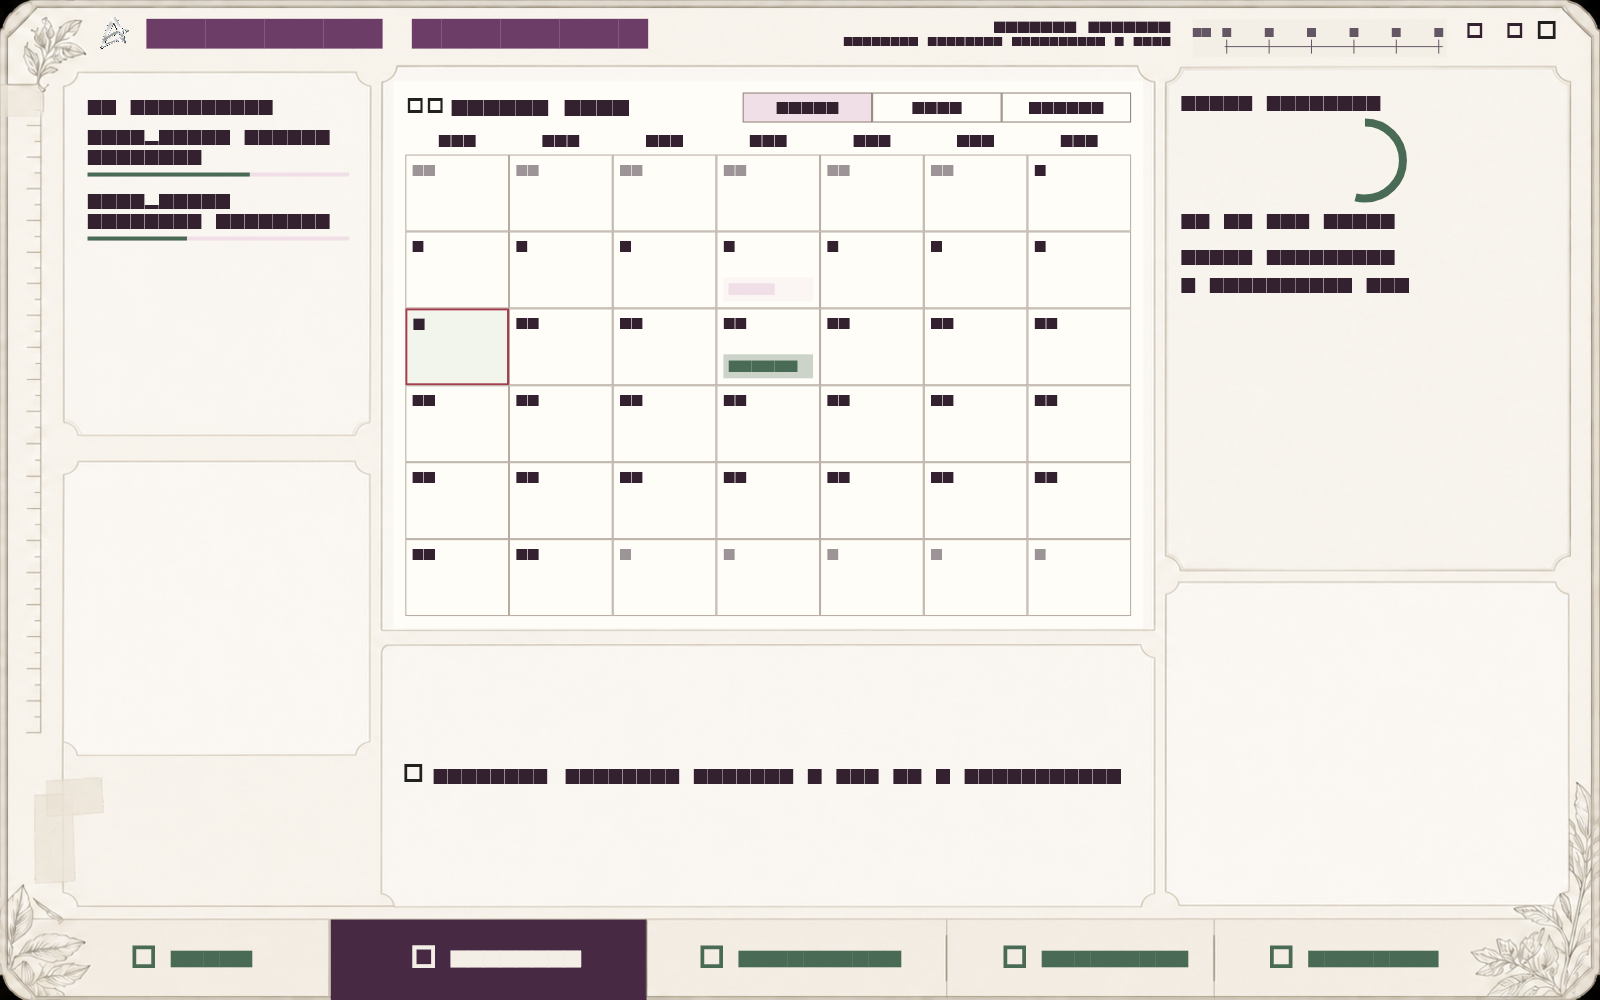
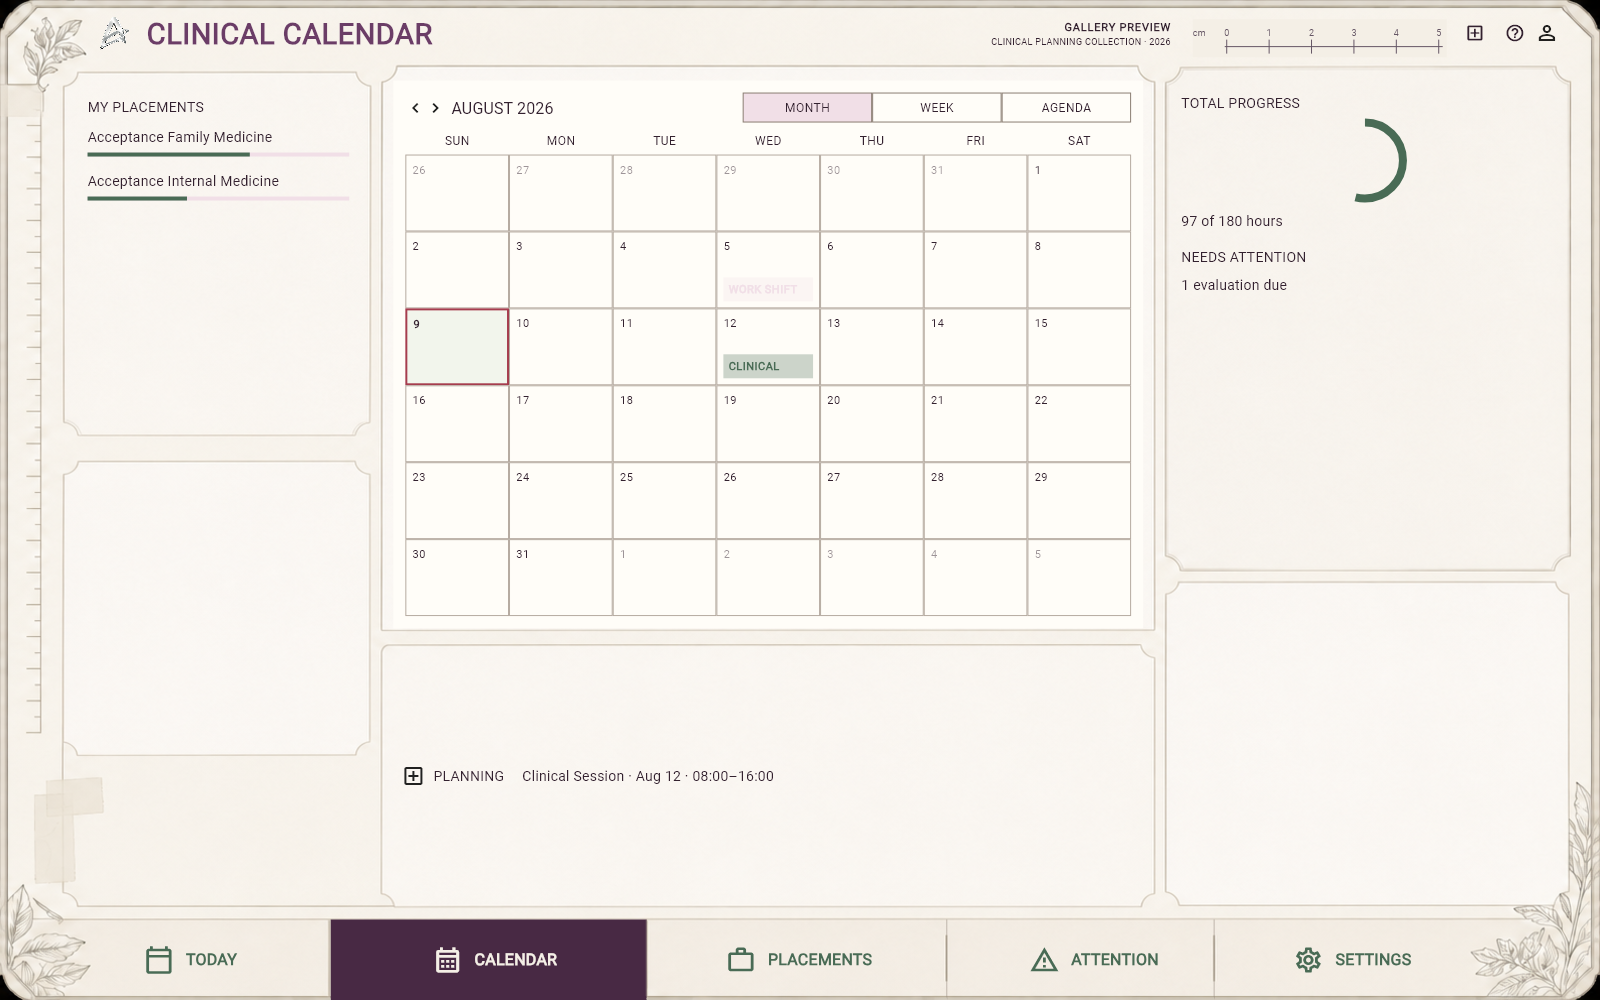
fix(theme-gallery): restore legible thumbnails (#217)

diff --git a/packages/clinical_calendar_presentation/test/theme_gallery_test.dart b/packages/clinical_calendar_presentation/test/theme_gallery_test.dart
@@ -22,13 +22,25 @@ const _calendarBayKeys = <String, String>{
 };
 
 void main() {
-  setUpAll(() {
+  setUpAll(() async {
     if (!Platform.isWindows) {
       goldenFileComparator = createProofGoldenComparator(
         goldenFileComparator,
         highDeltaPixelTolerance: .0045,
       );
     }
+    await loadProofFonts(includeRuntimeAliases: true);
+    final packageRoot =
+        Directory.current.path.endsWith('clinical_calendar_presentation')
+        ? Directory.current
+        : Directory('packages/clinical_calendar_presentation');
+    final fieldArchiveFont = await File(
+      '${packageRoot.path}/assets/heritage_field_notes_fonts/'
+      'RobotoCondensed-Variable.ttf',
+    ).readAsBytes();
+    await (FontLoader(
+      'FieldArchiveCondensed',
+    )..addFont(Future.value(ByteData.sublistView(fieldArchiveFont)))).load();
   });
 
   testWidgets('runtime thumbnail renders the deterministic month grid', (
@@ -68,29 +80,41 @@ void main() {
     expect(find.byKey(const Key('theme-thumbnail-day-cell-42')), findsNothing);
   });
 
-  testWidgets('profile thumbnail uses the pinned renderer-generated asset', (
+  testWidgets('every profile thumbnail uses its renderer-generated asset', (
     tester,
   ) async {
-    final bundle = ClinicalCalendarThemeBundleRegistry
-        .standard
-        .selectableBundles
-        .singleWhere((candidate) => candidate.id == graphiteThemeId);
-    await tester.pumpWidget(
-      MaterialApp(
-        home: SizedBox(
-          width: 800,
-          child: ThemeRuntimeThumbnail(bundle: bundle, useBakedAsset: true),
+    for (final bundle
+        in ClinicalCalendarThemeBundleRegistry.standard.galleryBundles) {
+      await tester.pumpWidget(
+        MaterialApp(
+          home: SizedBox(
+            width: 800,
+            child: ThemeRuntimeThumbnail(bundle: bundle, useBakedAsset: true),
+          ),
         ),
-      ),
-    );
-    await tester.pumpAndSettle();
+      );
+      await tester.pumpAndSettle();
 
-    expect(find.byType(Image), findsOneWidget);
-    expect(find.byType(GraphiteApplicationShell), findsNothing);
-    expect(
-      find.byKey(const Key('theme-gallery-thumbnail-graphite')),
-      findsOneWidget,
-    );
+      expect(find.byType(Image), findsOneWidget, reason: bundle.id);
+      final image = tester.widget<Image>(find.byType(Image));
+      final provider = image.image as AssetImage;
+      final assetId = bundle.gallery.runtimeThumbnailAssetId ?? bundle.id;
+      expect(
+        provider.assetName,
+        themeRuntimeThumbnailAssetPath(assetId),
+        reason: bundle.id,
+      );
+      expect(
+        provider.package,
+        'clinical_calendar_presentation',
+        reason: bundle.id,
+      );
+      expect(
+        find.byKey(Key('theme-gallery-thumbnail-${bundle.id}')),
+        findsOneWidget,
+      );
+      expect(tester.takeException(), isNull, reason: bundle.id);
+    }
   });
 
   test(

diff --git a/packages/clinical_calendar_presentation/test/support/proof_fonts.dart b/packages/clinical_calendar_presentation/test/support/proof_fonts.dart
@@ -39,7 +39,7 @@ Future<void> prepareProofEnvironment() async {
   await loadProofFonts();
 }
 
-Future<void> loadProofFonts() async {
+Future<void> loadProofFonts({bool includeRuntimeAliases = false}) async {
   final candidates = <Directory>[];
   final fontPairs = <({File roboto, File icons})>[];
 
@@ -115,7 +115,7 @@ Future<void> loadProofFonts() async {
       '${directory.path}${Platform.pathSeparator}materialicons-regular.otf',
     );
     if (roboto.existsSync() && icons.existsSync()) {
-      await _loadFont('ProofRoboto', roboto);
+      await _loadProofRoboto(roboto, includeRuntimeAliases);
       await _loadFont('MaterialIcons', icons);
       return;
     }
@@ -123,12 +123,19 @@ Future<void> loadProofFonts() async {
 
   for (final pair in fontPairs) {
     if (!pair.roboto.existsSync() || !pair.icons.existsSync()) continue;
-    await _loadFont('ProofRoboto', pair.roboto);
+    await _loadProofRoboto(pair.roboto, includeRuntimeAliases);
     await _loadFont('MaterialIcons', pair.icons);
     return;
   }
 
   throw StateError('Bundled Flutter proof fonts were not found.');
+}
+
+Future<void> _loadProofRoboto(File roboto, bool includeRuntimeAliases) async {
+  await _loadFont('ProofRoboto', roboto);
+  if (!includeRuntimeAliases) return;
+  await _loadFont('Ahem', roboto);
+  await _loadFont('Roboto', roboto);
 }
 
 ({File roboto, File icons}) _devToolsFontPair(String flutterBin) {
